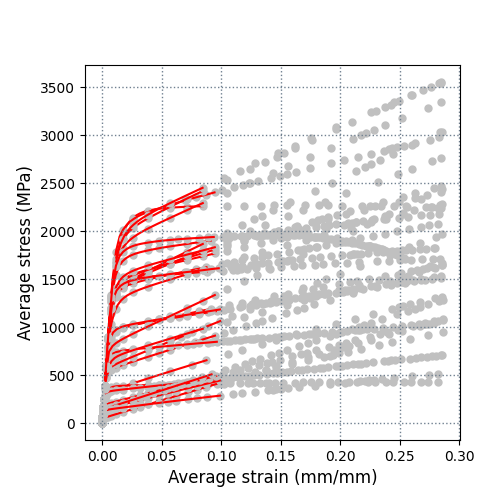
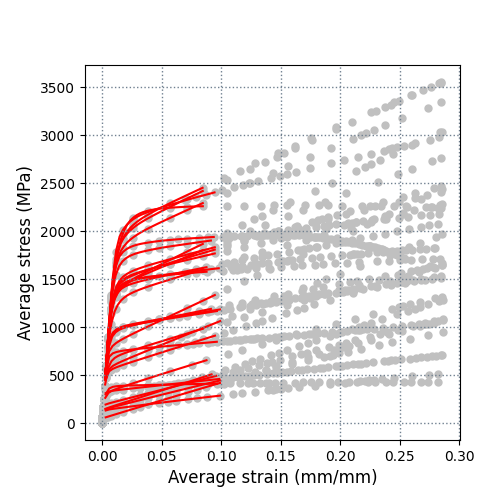
Minor changes

diff --git a/scripts/summarise/sum_ui.py b/scripts/summarise/sum_ui.py
@@ -31,7 +31,7 @@ PARAMS = [f"cp_lh_{i}" for i in range(2)] + ["cp_tau_0", "cp_n", "cp_gamma_0"]
 STRAIN_FIELD = "average_strain"
 STRESS_FIELD = "average_stress"
 NUM_STRAINS = 32
-MAX_STRAIN = 0.10
+MAX_STRAIN = 0.1
 
 def main():
     """
@@ -59,13 +59,10 @@ def main():
     plotter.prep_plot()
 
     # Iterate through the results
-    for summary_dict, processed_dict, param_dict in zip(summary_dict_list, processed_dict_list, param_dict_list):
-        
-        # Plot unprocessed and processed data
+    for summary_dict in summary_dict_list:
         plotter.scat_plot(summary_dict, colour="silver")
+    for processed_dict, param_dict in zip(processed_dict_list, param_dict_list):
         plotter.line_plot(processed_dict, colour="red")
-        
-        # Save to super dictionary 
         num_values = len(list(processed_dict.values())[0])
         for key in param_dict:
             super_processed_dict[key] += [round_sf(param_dict[key], 5)]*num_values
